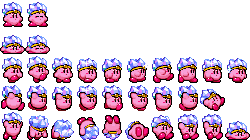
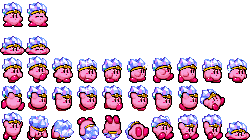
얼음 커비 조정

Changed region(s): [[0.0, 0.2571, 0.196, 0.4]]

diff --git a/2DGP_Project.py b/2DGP_Project.py
@@ -113,22 +113,22 @@ class Kobby:
                     if self.mode == 0:
                         self.image.clip_draw(25 * self.frame, 25, 25, 25, self.x, self.y, 50, 50)
                     elif self.mode == 1:
-                        self.image2.clip_draw(25 * self.frame, 35, 25, 25, self.x, self.y + 2, 50, 50)
+                        self.image2.clip_draw(25 * self.frame, 35, 25, 25, self.x - 2, self.y + 2, 50, 50)
                     elif self.mode == 2:
-                        self.image3.clip_draw(32 * self.frame, 40, 32, 40, self.x, self.y + 17, 64, 80)
+                        self.image3.clip_draw(32 * self.frame, 40, 32, 40, self.x - 7, self.y + 17, 64, 80)
                     elif self.mode == 3:
-                        self.image4.clip_draw(25 * self.frame, 28, 25, 28, self.x, self.y, 50, 56)
+                        self.image4.clip_draw(25 * self.frame, 28, 25, 28, self.x, self.y + 5, 50, 56)
                     elif self.mode == 4:
                         pass
                 else:
                     if self.mode == 0:
                         self.image.clip_draw(25 * self.frame, 50, 25, 25, self.x, self.y, 50, 50)
                     elif self.mode == 1:
-                        self.image2.clip_draw(25 * self.frame, 60, 25, 25, self.x, self.y + 2, 50, 50)
+                        self.image2.clip_draw(25 * self.frame, 60, 25, 25, self.x - 2, self.y + 2, 50, 50)
                     elif self.mode == 2:
-                        self.image3.clip_draw(32 * self.frame, 80, 32, 40, self.x, self.y + 17, 64, 80)
+                        self.image3.clip_draw(32 * self.frame, 80, 32, 40, self.x - 7, self.y + 17, 64, 80)
                     elif self.mode == 3:
-                        self.image4.clip_draw(25 * self.frame, 56, 25, 28, self.x, self.y, 50, 56)
+                        self.image4.clip_draw(25 * self.frame, 56, 25, 28, self.x, self.y + 5, 50, 56)
                     elif self.mode == 4:
                         pass
             elif self.dir < 0:
@@ -136,22 +136,22 @@ class Kobby:
                     if self.mode == 0:
                         self.image.clip_composite_draw(25 * self.frame, 25, 25, 25, 0, 'h', self.x, self.y, 50, 50)
                     elif self.mode == 1:
-                        self.image2.clip_composite_draw(25 * self.frame, 35, 25, 25, 0, 'h', self.x, self.y + 2, 50, 50)
+                        self.image2.clip_composite_draw(25 * self.frame, 35, 25, 25, 0, 'h', self.x + 2, self.y + 2, 50, 50)
                     elif self.mode == 2:
-                        self.image3.clip_composite_draw(32 * self.frame, 40, 32, 40, 0, 'h', self.x, self.y + 17, 64, 80)
+                        self.image3.clip_composite_draw(32 * self.frame, 40, 32, 40, 0, 'h', self.x + 7, self.y + 17, 64, 80)
                     elif self.mode == 3:
-                        self.image4.clip_composite_draw(25 * self.frame, 28, 25, 28, 0, 'h', self.x, self.y, 50, 56)
+                        self.image4.clip_composite_draw(25 * self.frame, 28, 25, 28, 0, 'h', self.x, self.y + 5, 50, 56)
                     elif self.mode == 4:
                         pass
                 else:
                     if self.mode == 0:
                         self.image.clip_composite_draw(25 * self.frame, 50, 25, 25, 0, 'h', self.x, self.y, 50, 50)
                     elif self.mode == 1:
-                        self.image2.clip_composite_draw(25 * self.frame, 60, 25, 25, 0, 'h', self.x, self.y + 2, 50, 50)
+                        self.image2.clip_composite_draw(25 * self.frame, 60, 25, 25, 0, 'h', self.x + 2, self.y + 2, 50, 50)
                     elif self.mode == 2:
-                        self.image3.clip_composite_draw(32 * self.frame, 80, 32, 40, 0, 'h', self.x, self.y + 17, 64, 80)
+                        self.image3.clip_composite_draw(32 * self.frame, 80, 32, 40, 0, 'h', self.x + 7, self.y + 17, 64, 80)
                     elif self.mode == 3:
-                        self.image4.clip_composite_draw(25 * self.frame, 56, 25, 28, 0, 'h', self.x, self.y, 50, 56)
+                        self.image4.clip_composite_draw(25 * self.frame, 56, 25, 28, 0, 'h', self.x, self.y + 5, 50, 56)
                     elif self.mode == 4:
                         pass
             else:
@@ -159,22 +159,22 @@ class Kobby:
                     if self.mode == 0:
                         self.image.clip_draw(25 * self.frame, 100, 25, 25, self.x, self.y, 50, 50)
                     elif self.mode == 1:
-                        self.image2.clip_draw(25 * self.frame, 110, 25, 25, self.x, self.y + 2, 50, 50)
+                        self.image2.clip_draw(25 * self.frame, 110, 25, 25, self.x - 2, self.y + 2, 50, 50)
                     elif self.mode == 2:
-                        self.image3.clip_draw(32 * self.frame, 160, 32, 40, self.x, self.y + 17, 64, 80)
+                        self.image3.clip_draw(32 * self.frame, 160, 32, 40, self.x - 7, self.y + 17, 64, 80)
                     elif self.mode == 3:
-                        self.image4.clip_draw(25 * self.frame, 112, 25, 28, self.x, self.y, 50, 56)
+                        self.image4.clip_draw(25 * self.frame, 112, 25, 28, self.x, self.y + 5, 50, 56)
                     elif self.mode == 4:
                         pass
                 elif self.last_dir == 1:
                     if self.mode == 0:
                         self.image.clip_composite_draw(25 * self.frame, 100, 25, 25, 0, 'h', self.x, self.y, 50, 50)
                     elif self.mode == 1:
-                        self.image2.clip_composite_draw(25 * self.frame, 110, 25, 25, 0, 'h', self.x, self.y + 2, 50, 50)
+                        self.image2.clip_composite_draw(25 * self.frame, 110, 25, 25, 0, 'h', self.x + 2, self.y + 2, 50, 50)
                     elif self.mode == 2:
-                        self.image3.clip_composite_draw(32 * self.frame, 160, 32, 40, 0, 'h', self.x, self.y + 17, 64, 80)
+                        self.image3.clip_composite_draw(32 * self.frame, 160, 32, 40, 0, 'h', self.x + 7, self.y + 17, 64, 80)
                     elif self.mode == 3:
-                        self.image4.clip_composite_draw(25 * self.frame, 112, 25, 28, 0, 'h', self.x, self.y, 50, 56)
+                        self.image4.clip_composite_draw(25 * self.frame, 112, 25, 28, 0, 'h', self.x, self.y + 5, 50, 56)
                     elif self.mode == 4:
                         pass
         elif self.action == 1:
@@ -182,22 +182,22 @@ class Kobby:
                 if self.mode == 0:
                     self.image.clip_draw(25 * self.frame, 75, 25, 25, self.x, self.y, 50, 50)
                 elif self.mode == 1:
-                    self.image2.clip_draw(25 * self.frame, 85, 25, 25, self.x, self.y + 2, 50, 50)
+                    self.image2.clip_draw(25 * self.frame, 85, 25, 25, self.x - 2, self.y + 2, 50, 50)
                 elif self.mode == 2:
-                    self.image3.clip_draw(32 * self.frame, 120, 32, 40, self.x, self.y + 17, 64, 80)
+                    self.image3.clip_draw(32 * self.frame, 120, 32, 40, self.x - 7, self.y + 17, 64, 80)
                 elif self.mode == 3:
-                    self.image4.clip_draw(25 * self.frame, 84, 25, 28, self.x, self.y, 50, 56)
+                    self.image4.clip_draw(25 * self.frame, 84, 25, 28, self.x, self.y + 5, 50, 56)
                 elif self.mode == 4:
                     pass
             if self.last_dir == 1:
                 if self.mode == 0:
                     self.image.clip_composite_draw(25 * self.frame, 75, 25, 25, 0, 'h', self.x, self.y, 50, 50)
                 elif self.mode == 1:
-                    self.image2.clip_composite_draw(25 * self.frame, 85, 25, 25, 0, 'h', self.x, self.y + 2, 50, 50)
+                    self.image2.clip_composite_draw(25 * self.frame, 85, 25, 25, 0, 'h', self.x + 2, self.y + 2, 50, 50)
                 elif self.mode == 2:
-                    self.image3.clip_composite_draw(32 * self.frame, 120, 32, 40, 0, 'h', self.x, self.y + 17, 64, 80)
+                    self.image3.clip_composite_draw(32 * self.frame, 120, 32, 40, 0, 'h', self.x + 7, self.y + 17, 64, 80)
                 elif self.mode == 3:
-                    self.image.clip_composite_draw(25 * self.frame, 84, 25, 28, 0, 'h', self.x, self.y, 50, 56)
+                    self.image4.clip_composite_draw(25 * self.frame, 84, 25, 28, 0, 'h', self.x, self.y + 5, 50, 56)
                 elif self.mode == 4:
                     pass
         elif self.action == 2:
